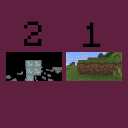
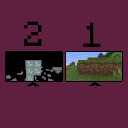
file fixes

Changed region(s): [[0.0312, 0.375, 0.9688, 0.6875]]

diff --git a/src/client/java/com/j0ker2j0ker/second_monitor_xray/client/SecondWindow.java b/src/client/java/com/j0ker2j0ker/second_monitor_xray/client/SecondWindow.java
@@ -1,4 +1,225 @@
 package com.j0ker2j0ker.second_monitor_xray.client;
 
+import com.j0ker2j0ker.second_monitor_xray.client.utils.Cube;
+import com.j0ker2j0ker.second_monitor_xray.client.utils.TextureLoader;
+import net.minecraft.block.Block;
+import net.minecraft.client.MinecraftClient;
+import net.minecraft.util.math.BlockPos;
+import net.minecraft.util.math.Vec3d;
+import net.minecraft.util.math.Vec3i;
+import org.lwjgl.glfw.GLFW;
+import org.lwjgl.opengl.GL;
+import org.lwjgl.opengl.GL11;
+
+import java.util.*;
+
 public class SecondWindow {
+
+    private long secondWindow;
+    private final List<Cube> cubes = new ArrayList<>();
+    private final int chunkDistance = 2;
+
+
+    public SecondWindow() {
+        if (!GLFW.glfwInit()) throw new IllegalStateException("Unable to initialize GLFW!");
+
+        GLFW.glfwWindowHint(GLFW.GLFW_VISIBLE, GLFW.GLFW_TRUE);
+        GLFW.glfwWindowHint(GLFW.GLFW_RESIZABLE, GLFW.GLFW_TRUE);
+
+        secondWindow = GLFW.glfwCreateWindow(1280, 720, "Xray Second Monitor", 0, 0);
+        if (secondWindow == 0) throw new IllegalStateException("Failed to create second window!");
+
+        new Thread(this::runSecondWindow, "Second-Window-Thread").start();
+    }
+
+    private void runSecondWindow(){
+        GLFW.glfwMakeContextCurrent(secondWindow);
+        GL.createCapabilities();
+
+        GL11.glEnable(GL11.GL_DEPTH_TEST);
+        GL11.glEnable(GL11.GL_TEXTURE_2D);
+        GL11.glEnable(GL11.GL_BLEND);
+        GL11.glBlendFunc(GL11.GL_SRC_ALPHA, GL11.GL_ONE_MINUS_SRC_ALPHA);
+
+        TextureLoader.loadBlockTextures();
+
+        while (!GLFW.glfwWindowShouldClose(secondWindow)) {
+            GL11.glClearColor(0f, 0f, 0f, 1f);
+            GL11.glClear(GL11.GL_COLOR_BUFFER_BIT | GL11.GL_DEPTH_BUFFER_BIT);
+
+            updateCubes();
+            renderCubesWithPlayerCamera();
+
+            if (secondWindow != 0 && !GLFW.glfwWindowShouldClose(secondWindow)) {
+                GLFW.glfwSwapBuffers(secondWindow);
+                GLFW.glfwPollEvents();
+            }
+
+            try { Thread.sleep(16*2); } catch (InterruptedException ignored) {}
+        }
+
+        GLFW.glfwDestroyWindow(secondWindow);
+        GLFW.glfwTerminate();
+    }
+
+    public void updateCubes(){
+        cubes.clear();
+        MinecraftClient client = MinecraftClient.getInstance();
+        if (client.player == null || client.world == null) {
+            try {
+                Thread.sleep(10);
+            } catch (InterruptedException e) {
+                throw new RuntimeException(e);
+            }
+            return;
+        }
+
+        int playerChunkX = (int) client.player.getX() >> 4;
+        int playerChunkZ = (int) client.player.getZ() >> 4;
+
+        for (int cx = playerChunkX - chunkDistance; cx <= playerChunkX + chunkDistance; cx++) {
+            for (int cz = playerChunkZ - chunkDistance; cz <= playerChunkZ + chunkDistance; cz++) {
+                if(client.world == null) return;
+                var chunk = client.world.getChunk(cx, cz);
+
+                for (int x = 0; x < 16; x++) {
+                    for (int z = 0; z < 16; z++) {
+                        for (int y = -64; y < 320; y++) {
+                            Block block = chunk.getBlockState(new BlockPos(new Vec3i(x, y, z))).getBlock();
+                            if (!isOre(block)) continue;
+
+                            double worldX = (cx << 4) + x;
+                            double worldZ = (cz << 4) + z;
+
+                            if (!isInFrustum(worldX, y, worldZ, client)) continue;
+
+                            cubes.add(new Cube(worldX, y, worldZ, block));
+                        }
+                    }
+                }
+            }
+        }
+    }
+
+    private void renderCubesWithPlayerCamera() {
+        MinecraftClient client = MinecraftClient.getInstance();
+        if (client.player == null) return;
+
+        int[] width = new int[1], height = new int[1];
+        GLFW.glfwGetFramebufferSize(secondWindow, width, height);
+        GL11.glViewport(0, 0, width[0], height[0]);
+
+        GL11.glMatrixMode(GL11.GL_PROJECTION);
+        GL11.glLoadIdentity();
+        float aspect = (float) width[0] / height[0];
+        float fov = client.options.getFov().getValue();
+        float near = 0.1f, far = 1000f;
+        float top = (float) Math.tan(Math.toRadians(fov / 2)) * near;
+        float bottom = -top;
+        float right = top * aspect;
+        float left = -right;
+        GL11.glFrustum(left, right, bottom, top, near, far);
+
+        GL11.glMatrixMode(GL11.GL_MODELVIEW);
+        GL11.glLoadIdentity();
+
+        Vec3d pos = client.player.getEntityPos();
+        float yaw = client.player.getYaw();
+        float pitch = client.player.getPitch();
+
+        GL11.glRotated(pitch, 1, 0, 0);
+        GL11.glRotated((yaw + 180), 0, 1, 0);
+        GL11.glTranslated(-pos.x, -pos.y-1.5, -pos.z);
+
+        for (Cube c : cubes) {
+            drawCube(c, c.block);
+        }
+    }
+
+    private void drawCube(Cube c, Block block) {
+        Integer texID = TextureLoader.blockTextures.get(block);
+        if (texID == null || texID == 0) return;
+
+        double s = 0.5;
+
+        GL11.glBindTexture(GL11.GL_TEXTURE_2D, texID);
+        GL11.glPushMatrix();
+        GL11.glTranslated(c.x + 0.5, c.y + 0.5, c.z + 0.5);
+
+        GL11.glBegin(GL11.GL_QUADS);
+
+        // FRONT
+        GL11.glTexCoord2f(0, 1); GL11.glVertex3d(-s,  s, -s);
+        GL11.glTexCoord2f(1, 1); GL11.glVertex3d( s,  s, -s);
+        GL11.glTexCoord2f(1, 0); GL11.glVertex3d( s,  s,  s);
+        GL11.glTexCoord2f(0, 0); GL11.glVertex3d(-s,  s,  s);
+
+        // BACK
+        GL11.glTexCoord2f(0, 1); GL11.glVertex3d(-s, -s,  s);
+        GL11.glTexCoord2f(1, 1); GL11.glVertex3d( s, -s,  s);
+        GL11.glTexCoord2f(1, 0); GL11.glVertex3d( s, -s, -s);
+        GL11.glTexCoord2f(0, 0); GL11.glVertex3d(-s, -s, -s);
+
+        // LEFT
+        GL11.glTexCoord2f(0, 1); GL11.glVertex3d(-s, -s, -s);
+        GL11.glTexCoord2f(1, 1); GL11.glVertex3d(-s, -s,  s);
+        GL11.glTexCoord2f(1, 0); GL11.glVertex3d(-s,  s,  s);
+        GL11.glTexCoord2f(0, 0); GL11.glVertex3d(-s,  s, -s);
+
+        // RIGHT
+        GL11.glTexCoord2f(0, 1); GL11.glVertex3d( s, -s,  s);
+        GL11.glTexCoord2f(1, 1); GL11.glVertex3d( s, -s, -s);
+        GL11.glTexCoord2f(1, 0); GL11.glVertex3d( s,  s, -s);
+        GL11.glTexCoord2f(0, 0); GL11.glVertex3d( s,  s,  s);
+
+        // TOP
+        GL11.glTexCoord2f(0, 1); GL11.glVertex3d(-s, -s,  s);
+        GL11.glTexCoord2f(1, 1); GL11.glVertex3d( s, -s,  s);
+        GL11.glTexCoord2f(1, 0); GL11.glVertex3d( s,  s,  s);
+        GL11.glTexCoord2f(0, 0); GL11.glVertex3d(-s,  s,  s);
+
+        // BOTTOM
+        GL11.glTexCoord2f(0, 1); GL11.glVertex3d(-s,  s, -s);
+        GL11.glTexCoord2f(1, 1); GL11.glVertex3d( s,  s, -s);
+        GL11.glTexCoord2f(1, 0); GL11.glVertex3d( s, -s, -s);
+        GL11.glTexCoord2f(0, 0); GL11.glVertex3d(-s, -s, -s);
+
+
+        GL11.glEnd();
+        GL11.glPopMatrix();
+    }
+
+    private boolean isOre(Block block) {
+        return TextureLoader.blockTextures.containsKey(block);
+    }
+
+    private boolean isInFrustum(double cx, double cy, double cz, MinecraftClient client) {
+        var player = client.player;
+        if (player == null) return false;
+
+        Vec3d camPos = player.getCameraPosVec(1.0f);
+
+        double dx = (cx + 0.5) - camPos.x;
+        double dy = (cy + 0.5) - camPos.y;
+        double dz = (cz + 0.5) - camPos.z;
+        Vec3d toCube = new Vec3d(dx, dy, dz).normalize();
+
+        float yaw = player.getYaw();
+        float pitch = player.getPitch();
+
+        double yawRad = Math.toRadians(-yaw);
+        double pitchRad = Math.toRadians(-pitch);
+
+        Vec3d forward = new Vec3d(
+                Math.sin(yawRad) * Math.cos(pitchRad),
+                Math.sin(pitchRad),
+                Math.cos(yawRad) * Math.cos(pitchRad)
+        ).normalize();
+
+        float fov = client.options.getFov().getValue();
+        double cosFov = Math.cos(Math.toRadians(fov));
+
+        return forward.dotProduct(toCube) > cosFov;
+    }
+
 }

diff --git a/src/client/java/com/j0ker2j0ker/second_monitor_xray/client/utils/TextureLoader.java b/src/client/java/com/j0ker2j0ker/second_monitor_xray/client/utils/TextureLoader.java
@@ -1,4 +1,72 @@
 package com.j0ker2j0ker.second_monitor_xray.client.utils;
 
+import net.minecraft.block.Block;
+import net.minecraft.block.Blocks;
+import org.lwjgl.BufferUtils;
+import org.lwjgl.opengl.GL11;
+import org.lwjgl.stb.STBImage;
+
+import java.io.InputStream;
+import java.nio.ByteBuffer;
+import java.nio.IntBuffer;
+import java.util.HashMap;
+import java.util.Map;
+
 public class TextureLoader {
+
+    public static final Map<Block, Integer> blockTextures = new HashMap<>();
+    /**
+     * Loads a PNG texture from the mod resources into OpenGL
+     * @param path Path inside the jar, e.g. "assets/second_monitor_xray/textures/block/diamond_ore.png"
+     * @return OpenGL texture ID
+     */
+    public static int loadTexture(String path) {
+        try (InputStream is = TextureLoader.class.getClassLoader().getResourceAsStream(path)) {
+            if (is == null) throw new RuntimeException("Texture not found: " + path);
+
+            byte[] bytes = is.readAllBytes();
+            ByteBuffer buffer = BufferUtils.createByteBuffer(bytes.length);
+            buffer.put(bytes).flip();
+
+            IntBuffer width = BufferUtils.createIntBuffer(1);
+            IntBuffer height = BufferUtils.createIntBuffer(1);
+            IntBuffer comp = BufferUtils.createIntBuffer(1);
+
+            ByteBuffer image = STBImage.stbi_load_from_memory(buffer, width, height, comp, 4);
+            if (image == null) throw new RuntimeException("Failed to load texture: " + path);
+
+            int texID = GL11.glGenTextures();
+            GL11.glBindTexture(GL11.GL_TEXTURE_2D, texID);
+            GL11.glTexParameteri(GL11.GL_TEXTURE_2D, GL11.GL_TEXTURE_MIN_FILTER, GL11.GL_NEAREST);
+            GL11.glTexParameteri(GL11.GL_TEXTURE_2D, GL11.GL_TEXTURE_MAG_FILTER, GL11.GL_NEAREST);
+            GL11.glTexImage2D(GL11.GL_TEXTURE_2D, 0, GL11.GL_RGBA8, width.get(0), height.get(0), 0,
+                    GL11.GL_RGBA, GL11.GL_UNSIGNED_BYTE, image);
+
+            STBImage.stbi_image_free(image);
+
+            return texID;
+        } catch (Exception e) {
+            throw new RuntimeException(e);
+        }
+    }
+
+    public static void loadBlockTextures() {
+        blockTextures.put(Blocks.DIAMOND_ORE, TextureLoader.loadTexture("assets/second_monitor_xray/textures/block/diamond_ore.png"));
+        blockTextures.put(Blocks.DEEPSLATE_DIAMOND_ORE, TextureLoader.loadTexture("assets/second_monitor_xray/textures/block/deepslate_diamond_ore.png"));
+        blockTextures.put(Blocks.GOLD_ORE, TextureLoader.loadTexture("assets/second_monitor_xray/textures/block/gold_ore.png"));
+        blockTextures.put(Blocks.DEEPSLATE_GOLD_ORE, TextureLoader.loadTexture("assets/second_monitor_xray/textures/block/deepslate_gold_ore.png"));
+        blockTextures.put(Blocks.NETHER_GOLD_ORE, TextureLoader.loadTexture("assets/second_monitor_xray/textures/block/nether_gold_ore.png"));
+        blockTextures.put(Blocks.IRON_ORE, TextureLoader.loadTexture("assets/second_monitor_xray/textures/block/iron_ore.png"));
+        blockTextures.put(Blocks.DEEPSLATE_IRON_ORE, TextureLoader.loadTexture("assets/second_monitor_xray/textures/block/deepslate_iron_ore.png"));
+        blockTextures.put(Blocks.REDSTONE_ORE, TextureLoader.loadTexture("assets/second_monitor_xray/textures/block/redstone_ore.png"));
+        blockTextures.put(Blocks.DEEPSLATE_REDSTONE_ORE, TextureLoader.loadTexture("assets/second_monitor_xray/textures/block/deepslate_redstone_ore.png"));
+        blockTextures.put(Blocks.LAPIS_ORE, TextureLoader.loadTexture("assets/second_monitor_xray/textures/block/lapis_ore.png"));
+        blockTextures.put(Blocks.DEEPSLATE_LAPIS_ORE, TextureLoader.loadTexture("assets/second_monitor_xray/textures/block/deepslate_lapis_ore.png"));
+        blockTextures.put(Blocks.COAL_ORE, TextureLoader.loadTexture("assets/second_monitor_xray/textures/block/coal_ore.png"));
+        blockTextures.put(Blocks.DEEPSLATE_COAL_ORE, TextureLoader.loadTexture("assets/second_monitor_xray/textures/block/deepslate_coal_ore.png"));
+        blockTextures.put(Blocks.EMERALD_ORE, TextureLoader.loadTexture("assets/second_monitor_xray/textures/block/emerald_ore.png"));
+        blockTextures.put(Blocks.DEEPSLATE_EMERALD_ORE, TextureLoader.loadTexture("assets/second_monitor_xray/textures/block/deepslate_emerald_ore.png"));
+        blockTextures.put(Blocks.NETHER_QUARTZ_ORE, TextureLoader.loadTexture("assets/second_monitor_xray/textures/block/nether_quartz_ore.png"));
+        blockTextures.put(Blocks.ANCIENT_DEBRIS, TextureLoader.loadTexture("assets/second_monitor_xray/textures/block/ancient_debris.png"));
+    }
 }

diff --git a/src/client/java/com/j0ker2j0ker/second_monitor_xray/client/SecondMonitorXrayClient.java b/src/client/java/com/j0ker2j0ker/second_monitor_xray/client/SecondMonitorXrayClient.java
@@ -1,10 +1,21 @@
 package com.j0ker2j0ker.second_monitor_xray.client;
 
 import net.fabricmc.api.ClientModInitializer;
+import net.fabricmc.fabric.api.client.networking.v1.ClientPlayConnectionEvents;
+
 
 public class SecondMonitorXrayClient implements ClientModInitializer {
 
+    private static SecondMonitorXrayClient instance;
+    public SecondWindow secondWindow;
+
     @Override
     public void onInitializeClient() {
+        instance = this;
+        secondWindow = new SecondWindow();
+    }
+
+    public static SecondMonitorXrayClient getInstance() {
+        return instance;
     }
 }

diff --git a/src/client/java/com/j0ker2j0ker/second_monitor_xray/client/utils/Cube.java b/src/client/java/com/j0ker2j0ker/second_monitor_xray/client/utils/Cube.java
@@ -1,4 +1,16 @@
 package com.j0ker2j0ker.second_monitor_xray.client.utils;
 
+
+import net.minecraft.block.Block;
+
 public class Cube {
+    public double x,y,z;
+    public Block block;
+
+    public Cube(double x, double y, double z, Block block) {
+        this.x = x;
+        this.y = y;
+        this.z = z;
+        this.block = block;
+    }
 }
